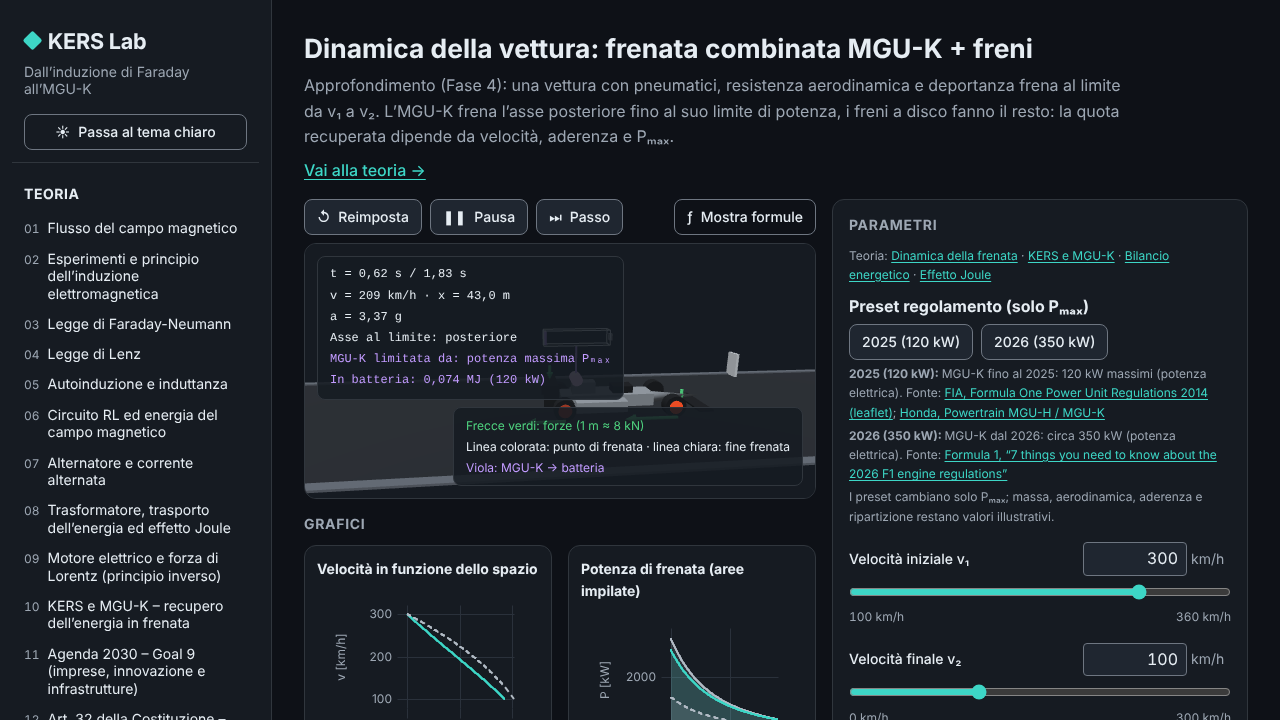
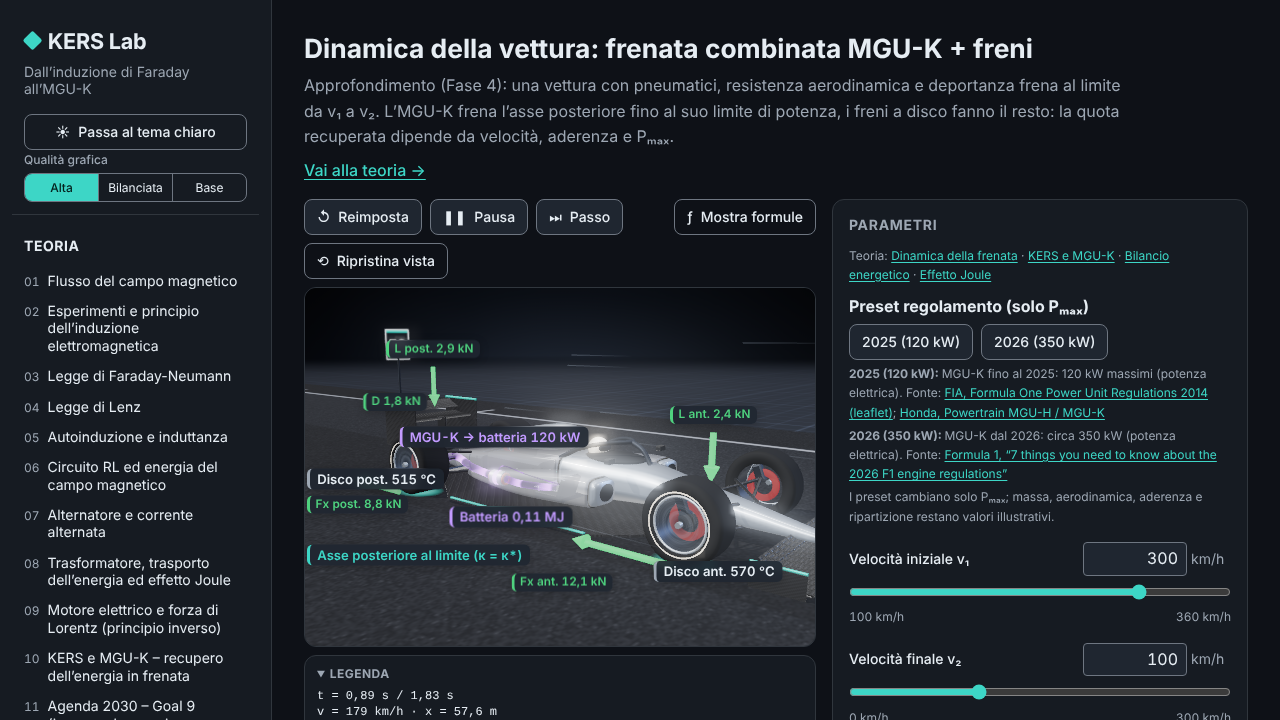
chore(release): v0.6.0 — physics-driven 3D graphics for all simulators, quality tiers
Claude-Session: https://claude.ai/code/session_01BD6FmjFvjkJfxyUBuwpfNf

diff --git a/README.md b/README.md
@@ -19,7 +19,7 @@ runtime, font inclusi), disponibile anche come app desktop per Windows, e contie
 - **Simulatori** — 7 simulatori 3D (6 di base + 1 di approfondimento) con grafici in
   tempo reale e formule che si aggiornano con i valori numerici.
 
-**Versione attuale: v0.5.1** — tutte le fasi del progetto (1–4) sono completate; le
+**Versione attuale: v0.6.0** — tutte le fasi del progetto (1–4) sono completate; le
 novità di ogni versione sono in [`CHANGELOG.md`](CHANGELOG.md).
 
 ## Il filo logico
@@ -42,11 +42,13 @@ Art. 32 Costituzione — la salute come diritto individuale e interesse colletti
 
 ## Screenshot
 
-| Teoria                                                                                               | Simulatore `faraday`                                                                                         |
-| ---------------------------------------------------------------------------------------------------- | ------------------------------------------------------------------------------------------------------------ |
-| ![Pagina di teoria con formule KaTeX](e2e/screenshots/theory-dark-1280x720.png)                      | ![Simulatore Faraday-Neumann: spira rotante nel campo uniforme](e2e/screenshots/sim-empty-dark-1280x720.png) |
-| **Frenata e recupero di energia**                                                                    | **Dinamica della vettura**                                                                                   |
-| ![Frenata con MGU-K al limite di potenza e freni a disco](docs/media/kers-braking-dark-1280x720.png) | ![Frenata combinata MGU-K + freni con forze sugli assi](docs/media/car-dynamics-dark-1280x720.png)           |
+| Teoria                                                                                                    | Simulatore `faraday`                                                                                  |
+| --------------------------------------------------------------------------------------------------------- | ----------------------------------------------------------------------------------------------------- |
+| ![Pagina di teoria con formule KaTeX](e2e/screenshots/theory-dark-1280x720.png)                           | ![Simulatore Faraday-Neumann: spira rotante nel campo uniforme](docs/media/faraday-dark-1280x720.png) |
+| **Frenata e recupero di energia**                                                                         | **Dinamica della vettura**                                                                            |
+| ![Frenata con MGU-K al limite di potenza e freni a disco](docs/media/kers-braking-dark-1280x720.png)      | ![Frenata combinata MGU-K + freni con forze sugli assi](docs/media/car-dynamics-dark-1280x720.png)    |
+| **Legge di Lenz**                                                                                         | **Teoria e simulatori in qualità grafica Alta**                                                       |
+| ![Magnete, bobina avvolta e galvanometro con linee di campo calcolate](docs/media/lenz-dark-1280x720.png) | Le catture dei simulatori sono in qualità Alta (`?quality=alta`).                                     |
 
 ## I simulatori
 
@@ -88,6 +90,20 @@ npm run e2e            # Playwright (Chromium), smoke test end-to-end
 ```
 
 Per Playwright con un Chromium già installato: `PW_CHROMIUM_PATH=/percorso/chrome npm run e2e`.
+
+## Grafica 3D e qualità
+
+Le scene 3D sono costruite sulla fisica dei modelli: linee di campo calcolate, particelle di
+corrente proporzionali a i, temperature da modelli termici, nastri di energia proporzionali
+alla potenza; ogni scala è dichiarata nella legenda del simulatore e in
+[`docs/PHYSICS.md`](docs/PHYSICS.md) §12. Nel menu laterale si sceglie la **qualità grafica**:
+
+- **Alta** — post-processing, ombre, riflessi: automatica nell’app per PC e con scheda grafica
+  dedicata;
+- **Bilanciata** — per schede grafiche integrate;
+- **Base** — senza effetti, per PC senza accelerazione grafica.
+
+Si può forzare con `?quality=alta`, `?quality=bilanciata` o `?quality=base` nell’indirizzo.
 
 ## Tecnologie
 

diff --git a/CHANGELOG.md b/CHANGELOG.md
@@ -7,6 +7,49 @@ adotta il [Semantic Versioning](https://semver.org/lang/it/).
 
 ## [Unreleased]
 
+## [0.6.0] - 2026-10-29
+
+Nuova grafica 3D di tutti i simulatori, guidata dalla fisica dei modelli.
+
+### Aggiunto
+
+- Base grafica comune (`src/render/`): materiali realistici (rame smaltato, ferro laminato,
+  acciaio, carbonio), illuminazione d’ambiente generata nel programma (nessuna immagine
+  scaricata: l’app resta offline), ombre morbide, bagliore per energia e calore, vista
+  orbitabile con "Ripristina vista".
+- **Qualità grafica** Alta / Bilanciata / Base nel menu laterale (ricordata dal browser):
+  Alta automatica nell’app per PC e con scheda grafica dedicata, Base sui PC senza GPU;
+  forzabile con `?quality=alta|bilanciata|base` nell’indirizzo.
+- Effetti visivi calcolati dal modello, con scale dichiarate in legenda:
+  - linee di campo tracciate dai campi veri (dipolo, spira esatta con integrali ellittici,
+    solenoide, campo tra le espansioni polari con le frange);
+  - particelle di corrente con verso e velocità proporzionali a i;
+  - temperature da modelli termici (dischi freno, resistore, avvolgimenti, linea AT) e colore
+    di incandescenza dal corpo nero solo sopra 700 K; altrimenti falsi colori dichiarati;
+  - nastri di energia con spessore proporzionale alla potenza.
+- Ridisegnati tutti i 7 simulatori: espansioni polari e lampadina (Faraday), banco con
+  galvanometro smorzato e campo indotto (Lenz), macchina completa con forze di Lorentz e flussi
+  di energia (alternatore/motore), monoposto originale con dischi che si scaldano (frenata KERS,
+  dinamica della vettura), catena centrale → tralicci con catenaria → città (trasformatore),
+  banco RL con il campo del solenoide che cresce con τ (circuito RL).
+- Nuovi moduli di fisica documentati in `docs/PHYSICS.md` §8–§12 (campi, modello termico,
+  dischi freno, linea elettrica) con la tabella di trasparenza "effetto visivo → grandezza
+  fisica → scala".
+
+### Corretto
+
+- Verifica indipendente della nuova grafica (QA-031…QA-043): scena più alta a 1280×720 con
+  legende spostate in un riquadro "Legenda" sotto la scena, etichette che non si sovrappongono
+  mai a legende e riquadri, contorno di focus visibile sul magnete di Lenz, velocità delle
+  particelle nel trasformatore sempre nel rapporto N₂/N₁, lampadina di Faraday accesa solo in
+  proporzione alla potenza, scale e guadagni dichiarati in tutte le note, segno meno tipografico
+  "−", meno allocazioni per fotogramma, un solo worker per il tracciamento delle linee.
+
+### Note
+
+- I 60 fps su RTX 3060 non sono misurati: nei test (grafica software) la qualità Alta gira a
+  pochi fps, il carico per fotogramma resta basso (≈ 75–200 draw call).
+
 ## [0.5.1] - 2026-10-28
 
 ### Modificato
@@ -237,7 +280,8 @@ Correzioni dal round 2 della revisione QA:
 - I 60 fps non sono stati misurati sul portatile di riferimento: sono disponibili solo
   misure in Chromium headless.
 
-[Unreleased]: https://github.com/Chip-jpg/MGUK-KERS-Simulator/compare/v0.5.1...HEAD
+[Unreleased]: https://github.com/Chip-jpg/MGUK-KERS-Simulator/compare/v0.6.0...HEAD
+[0.6.0]: https://github.com/Chip-jpg/MGUK-KERS-Simulator/compare/v0.5.1...v0.6.0
 [0.5.1]: https://github.com/Chip-jpg/MGUK-KERS-Simulator/compare/v0.5.0...v0.5.1
 [0.5.0]: https://github.com/Chip-jpg/MGUK-KERS-Simulator/compare/v0.4.1...v0.5.0
 [0.4.1]: https://github.com/Chip-jpg/MGUK-KERS-Simulator/compare/v0.4.0...v0.4.1

diff --git a/docs/ARCHITECTURE.md b/docs/ARCHITECTURE.md
@@ -565,6 +565,20 @@ geometry change, never per frame; if only the field magnitude changes keep the l
   the layer, or when no label asks for occlusion, no ray is ever cast. Visible text uses Unicode
   sub/superscripts (τₑₘ, Φₘₐₓ, I₀), never `_` (KaTeX only in formula panels).
 
+### 10.5b Additions in v0.6.0 (QA-031…QA-043)
+
+- **Legend dock:** `SimLayout.addSceneLegend(el)` registers in-canvas legends/HUDs; when the
+  scene is shorter than 420 px or narrower than 640 px (`compact`) they move into a collapsible
+  "Legenda" `<details>` block under the scene, and back when there is room. `.sim-scene` has a
+  22,5rem minimum height.
+- **Label obstacles:** registered legend/HUD/badge boxes are obstacles for `labels.ts`; a
+  label that finds no free slot is hidden for that frame (never stacked). `stats()` reports
+  `dropped` and `obstacles`.
+- **Trace worker:** `estimateTraceCost(job)` sends heavy first traces (> `HEAVY_TRACE_COST`)
+  to the worker; all field-line sets of a stage share one reference-counted worker.
+- **ODE work buffers:** `rk4Step(f, t, y, dt, work?)` accepts an optional `createRk4Work(n)`
+  buffer (results bit-identical); plots redraw at most `PLOT_MAX_HZ` = 30 Hz into reused arrays.
+
 ### 10.6 Disposal and performance rules
 
 - Create resources through the stage, the kit and the helpers; call each helper's `dispose()`
